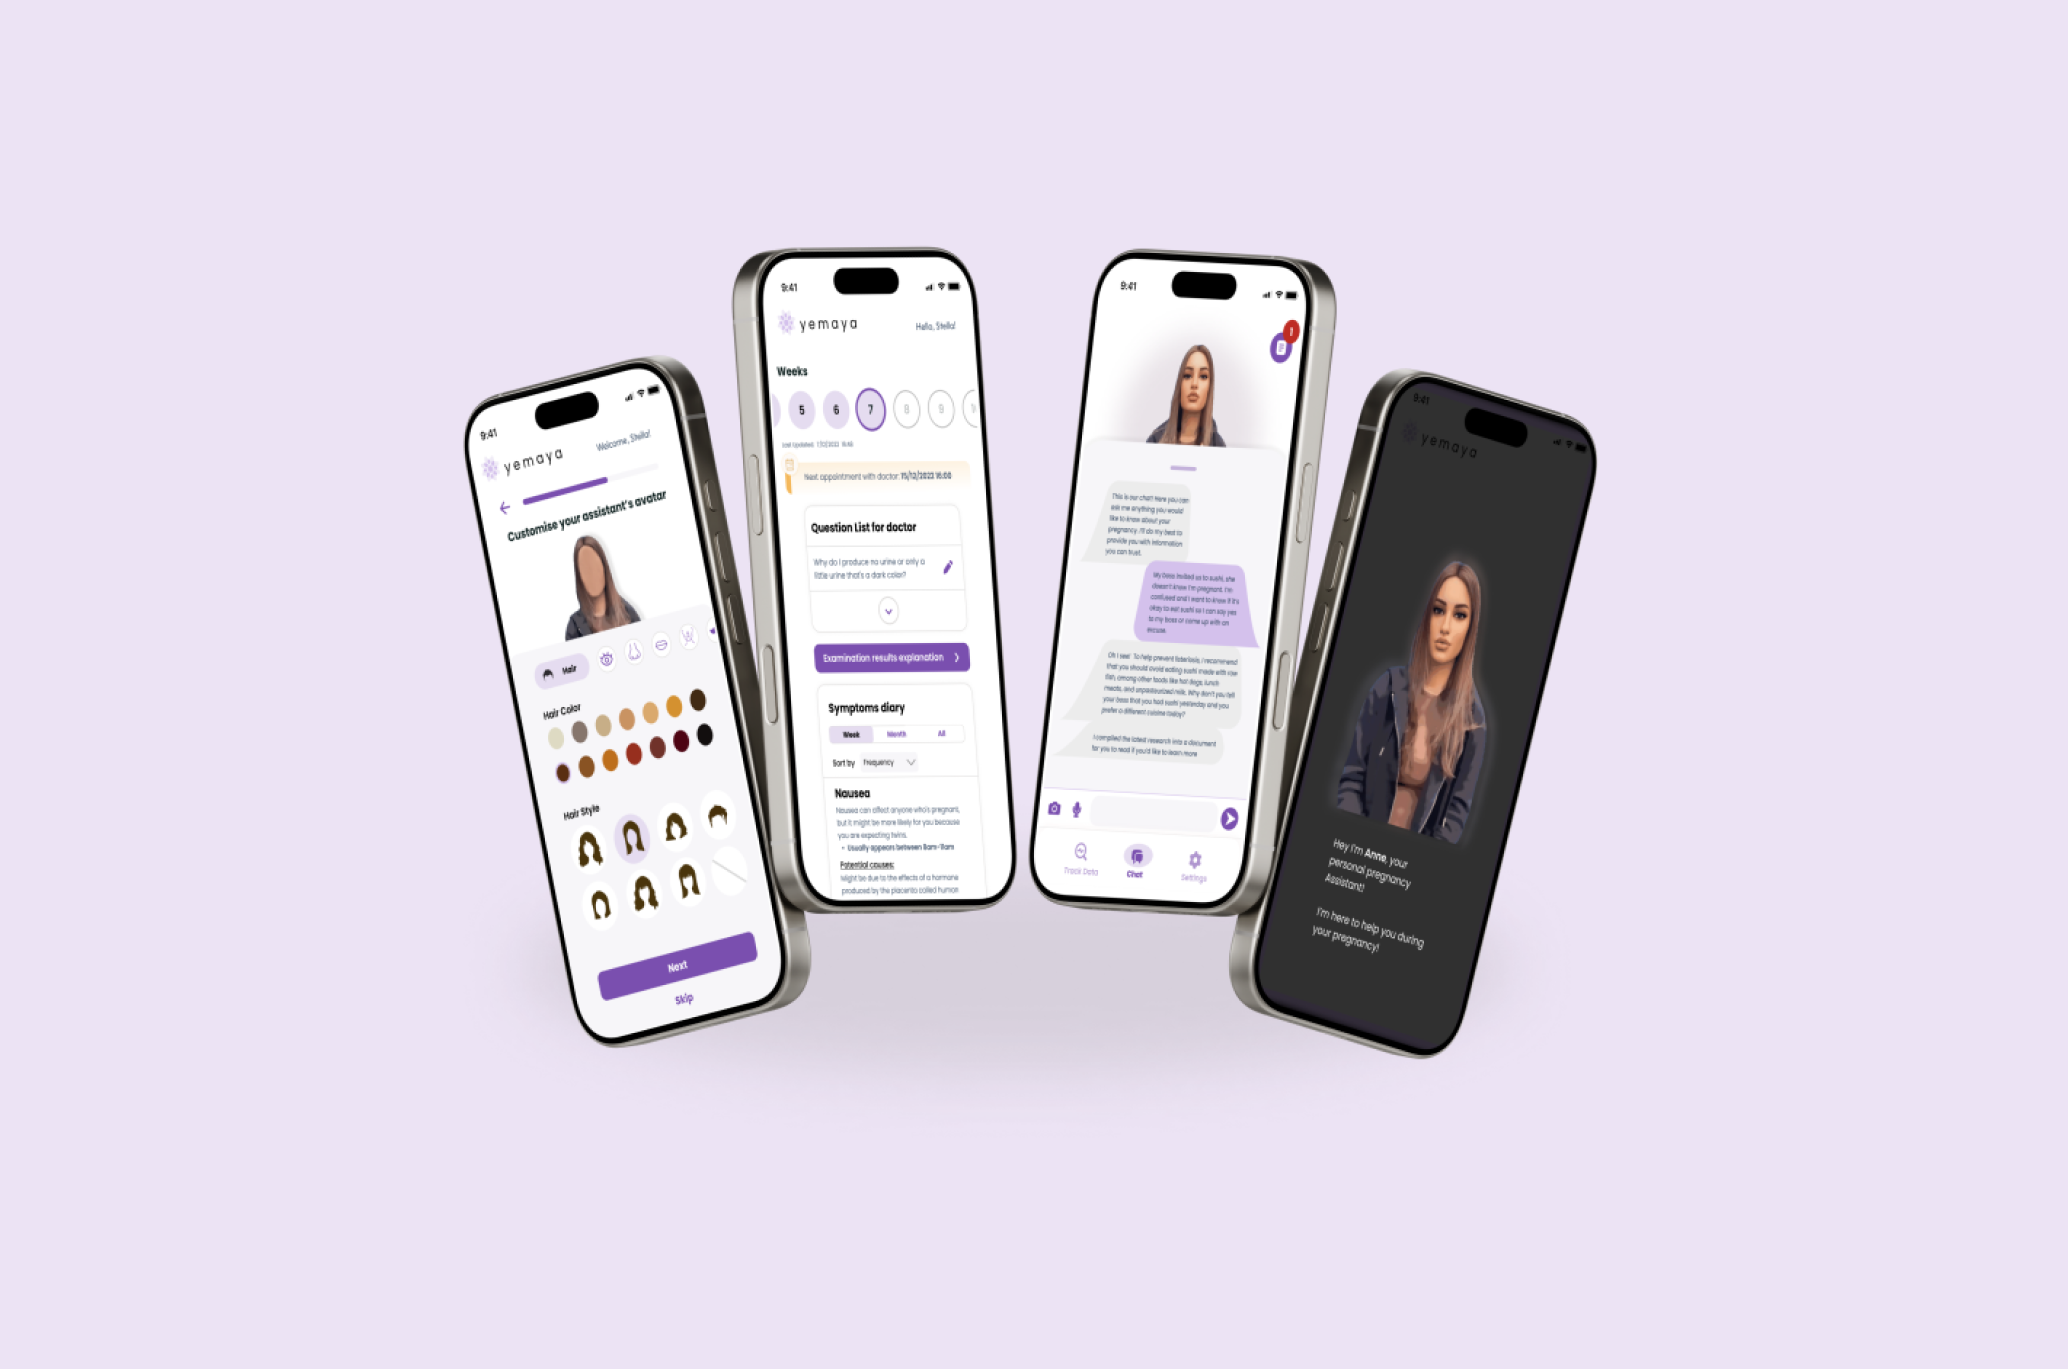
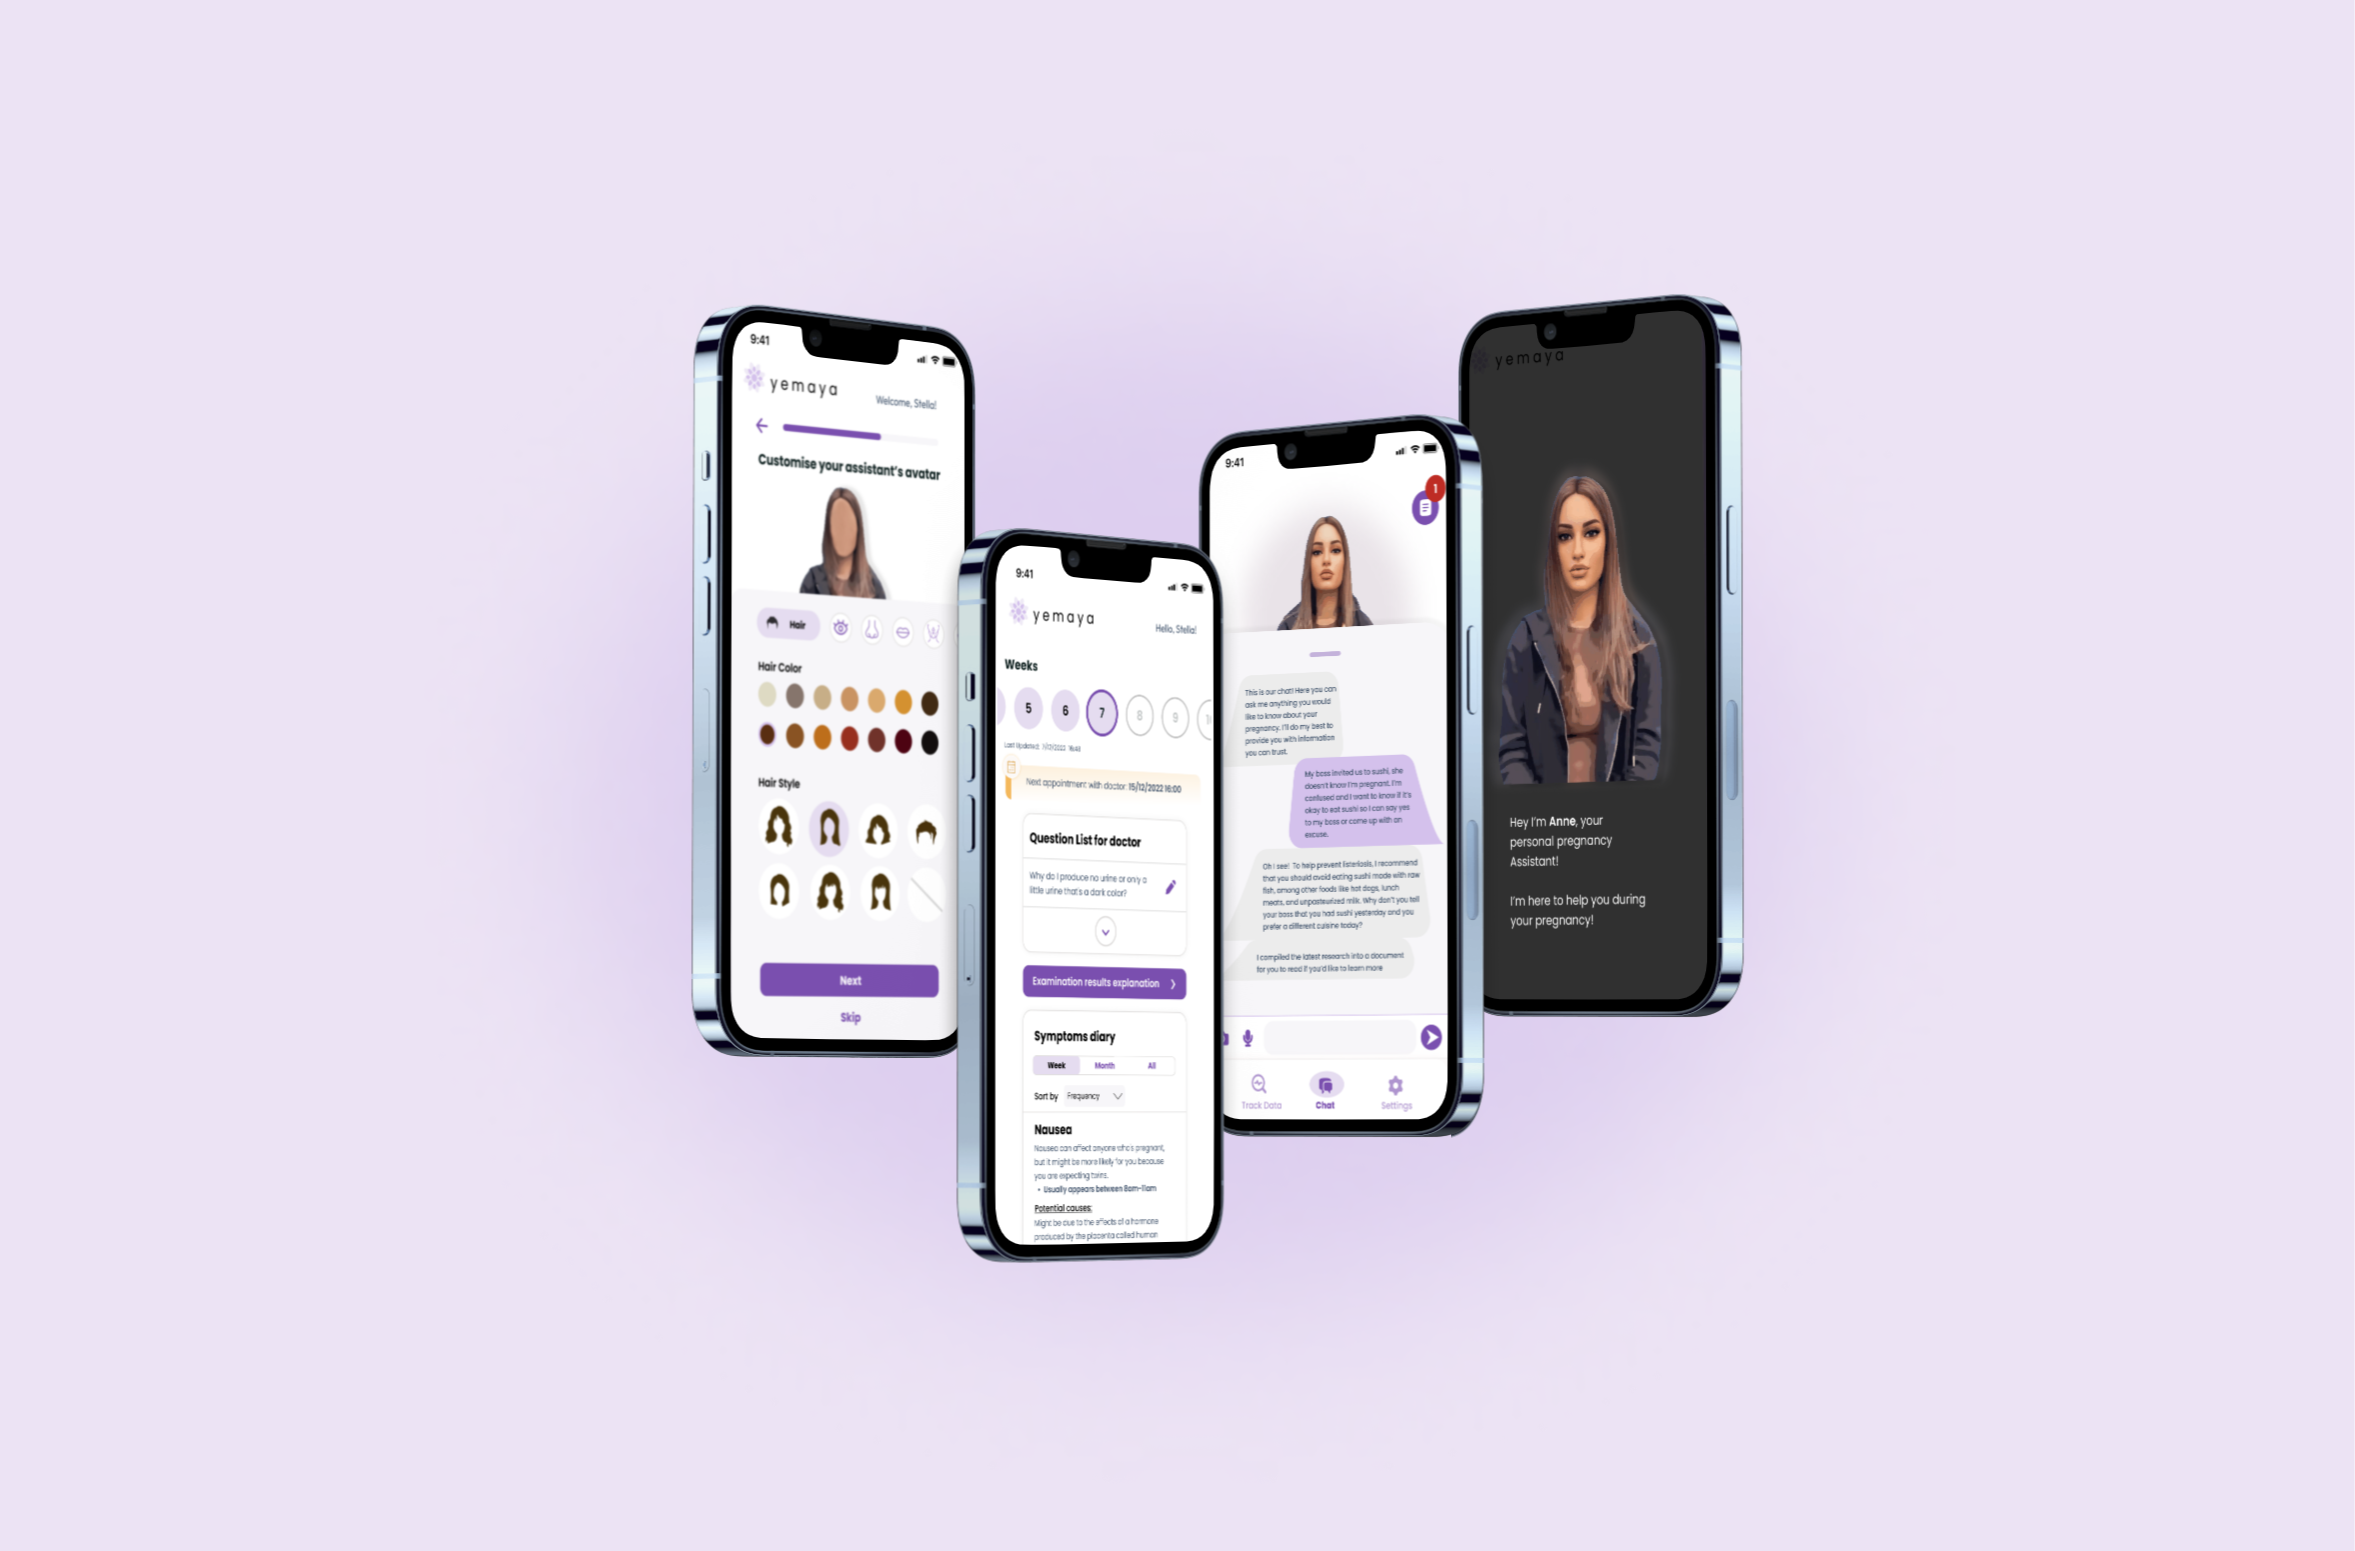
Cover Photos Changes

Changed region(s): [[0.2166, 0.1534, 0.7737, 0.8283]]

diff --git a/Projects/Yemaya/index.html b/Projects/Yemaya/index.html
@@ -67,7 +67,7 @@
        </div>
     </section> -->
     <section id="welcome-projects" style="background:#ECE3F4; padding:unset;" tabindex="-1">
-      <img class="projectTopImage" src="../../static/images/yemaya/yemayacover2.png" alt="Yemaya" alt="Cover Image of Yemaya Mobile Screens">
+      <img class="projectTopImage" src="../../static/images/yemaya/yemayacover3.png" alt="Yemaya" alt="Cover Image of Yemaya Mobile Screens">
       <div class="aboutparagraph" id="projectsTextImage" style="padding-bottom:1rem; position: absolute; ">
         <p class="projectsName" style="color:rgba(255,255,255,1)">
           Yemaya </p>
